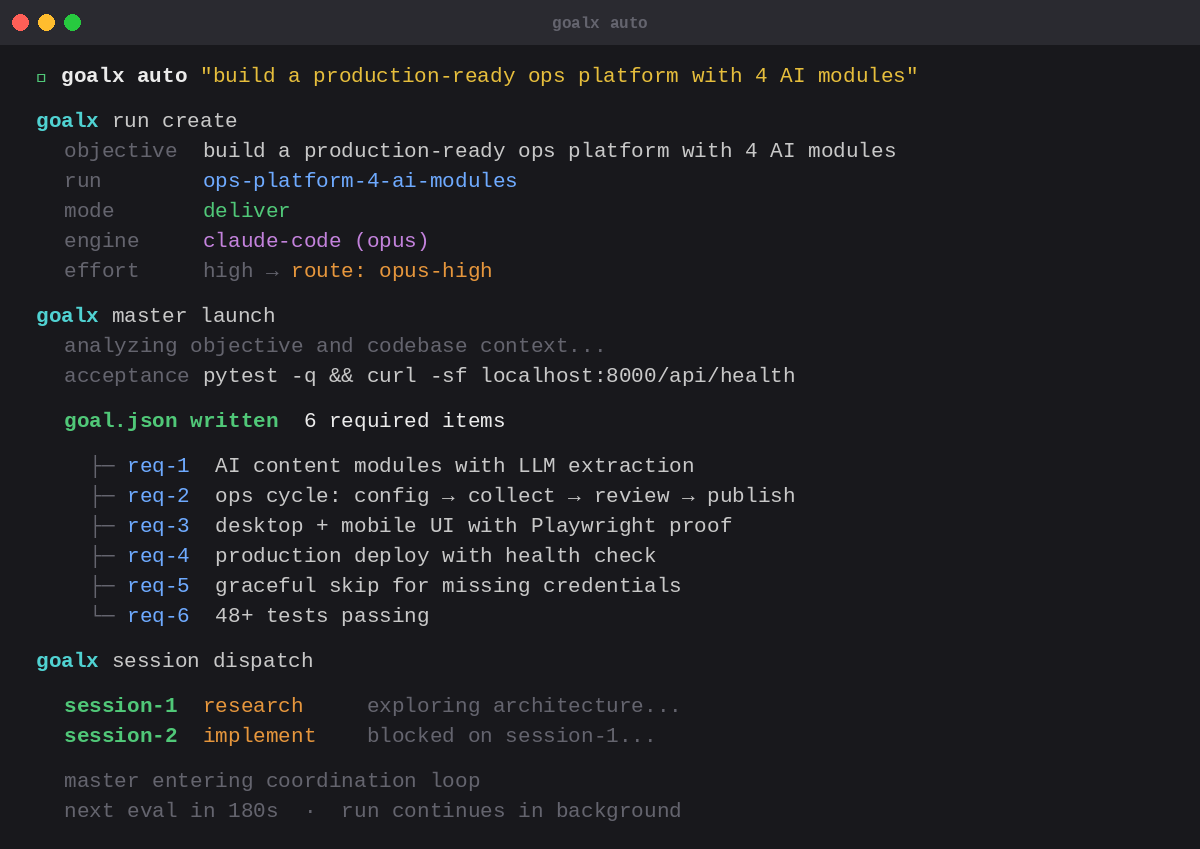
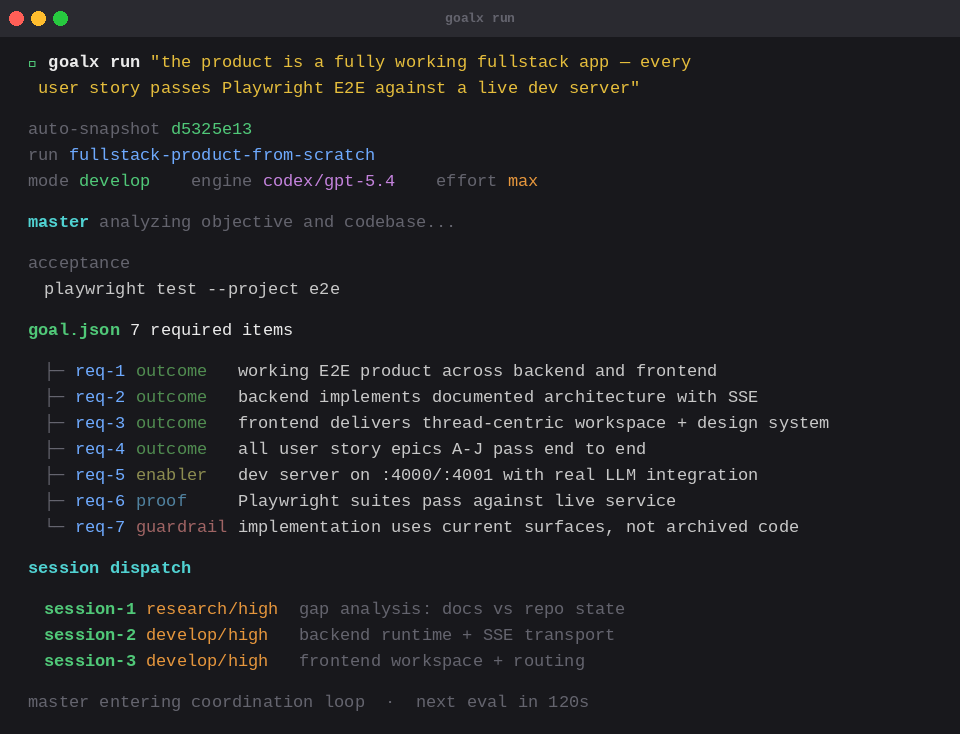
Update README screenshots with anonymized real-run patterns

diff --git a/README.md b/README.md
@@ -10,11 +10,11 @@ goalx run "this product is a working investor-ready demo someone can open and im
 # wake up to progress, reports, and mergeable work
 ```
 
-Master analyzes the objective, decomposes it into requirements, and dispatches parallel sessions:
+Master decomposes the objective into typed requirements and dispatches parallel sessions:
 
-![goalx auto](guides/goalx-auto.png)
+![goalx run](guides/goalx-auto.png)
 
-Runs accumulate across projects. Each run tracks sessions, status, and mode:
+Runs accumulate across projects:
 
 ![goalx list](guides/goalx-list.png)
 
